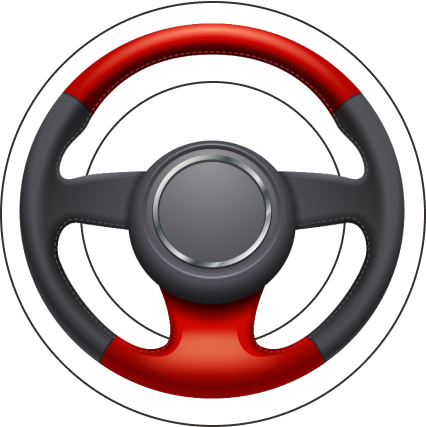
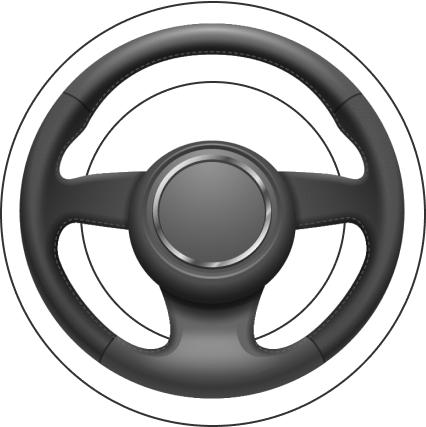
Read encoder value in real time (50ms interval). Create and sync default profile if it does not exist in app dir.

Changed region(s): [[0.2136, 0.6698, 0.7629, 0.9438], [0.1526, 0.0304, 0.8545, 0.274]]

diff --git a/src/App.jsx b/src/App.jsx
@@ -1,11 +1,14 @@
 import {useEffect, useState} from 'react';
 import { invoke } from "@tauri-apps/api/tauri";
+import { BaseDirectory, createDir, readTextFile, writeTextFile, exists } from "@tauri-apps/api/fs";
+import { appDataDir } from '@tauri-apps/api/path';
 import "./App.css";
 import { appWindow } from '@tauri-apps/api/window';
 import paddockLogo from "./assets/paddock-logo.png";
 import axisTab from "./assets/axis-tab.png";
 import effectTab from "./assets/effect-tab.png";
 import steeringWheel from "./assets/steering-wheel.png";
+import steeringWheelActive from "./assets/steering-wheel-active.png";
 import steeringWheelTitle from "./assets/steering-wheel-angle-title.png";
 
 function App() {
@@ -21,10 +24,83 @@ function App() {
     const [sliderInertiaValue, setSliderInertiaValue] = useState(50);
     const [sliderFilterFreqValue, setSliderFilterFreqValue] = useState(250);
     const [sliderFilterQValue, setSliderFilterQValue] = useState(40);
+    const [rotation, setRotation] = useState(0);
+    const [profiles, setProfiles] = useState({});
 
     const [status, setStatus] = useState('Disconnected');
     const [connectedDevice, setConnectedDevice] = useState('');
     const [message, setMessage] = useState('');
+
+    const prepareDataDirectory = async () => {
+      await createDir("data", {
+        dir: BaseDirectory.Desktop,
+        recursive: true,
+      });
+    }
+
+    const applyProfile = async (profile) => {
+        const keys = Object.keys(profile);
+        for (let i in keys) {
+            let key = keys[i];
+            if (key === 'name') { // This could cause crash in Rust side.
+                continue;
+            }
+            let value = profile[key];
+            let input = key + ":" + value
+            console.log(input);
+            await invoke("set_value", { input });
+        }
+    }
+
+    const syncProfileData = async () => {
+        await prepareDataDirectory()
+
+        const appDirectory = await appDataDir();
+        const filePath = appDirectory + `profiles.json`
+        try {
+            const fileExists = await exists(filePath);
+            if (!fileExists) {
+                let profiles = {
+                    current: "Default",
+                    profiles: [{
+                        name: "Default",
+                        degrees: 540,
+                        power: 50,
+                        intensity: 50,
+                        bumpstop: 50,
+                        idlespring: 50,
+                        mechanicaldamper: 50,
+                        damper: 50,
+                        spring: 50,
+                        friction: 50,
+                        inertia: 50,
+                        filtefreq: 250,
+                        filterq: 50,
+                    }],
+                }
+                setProfiles(profiles);
+                applyProfile(profiles.profiles[0]);
+                let content = JSON.stringify(profiles);
+                await writeTextFile(
+                    {
+                        contents: content,
+                        path: filePath,
+                    }
+                );
+            } else {
+                const content = await readTextFile(filePath);
+                const profiles = JSON.parse(content);
+                setProfiles(profiles);
+            }
+        } catch (e) {
+            console.log(e);
+        }
+    };
+
+    const readDeviceEncoder = async (e) => {
+        let degs = await invoke("read_device_encoder");
+        setRotation(Math.floor(degs));
+    }
 
     const setCenterPosition = async (e) => {
         let input = "center" + ":0";
@@ -105,12 +181,24 @@ function App() {
     }
 
     useEffect(() => {
-      appWindow.setResizable(false);
-      appWindow.setTitle('RPS Paddock')
-      setInterval(() => {
-          getDevices();
-      }, 1000);
-    }, [])
+        appWindow.setResizable(false);
+        appWindow.setTitle('RPS Paddock')
+
+        syncProfileData();
+
+        const readDeviceEncoderInterval = setInterval(() => {
+            readDeviceEncoder();
+        }, 50);
+
+        const getDeviceInterval = setInterval(() => {
+            getDevices();
+        }, 1000);
+
+        return () => {
+            clearInterval(getDeviceInterval);
+            clearInterval(readDeviceEncoderInterval);
+        }
+    }, [status])
 
     return (
         <div id="app">
@@ -121,14 +209,19 @@ function App() {
                 </div>
                 <div className="title" data-tauri-drag-region>
                     <img src={paddockLogo} width="300" data-tauri-drag-region/>
-	    	    <div className="device-box">
-                <div className="status">
+	    	    <div className="device-box" data-tauri-drag-region>
+                <div className="status" data-tauri-drag-region>
+                {status=='Connected' ? (
+                    <div className="connected-indicator" data-tauri-drag-region></div>
+                ) : (
+                    <div className="disconnected-indicator" data-tauri-drag-region></div>
+                )}
 	    	    {status} 
                     {connectedDevice && connectedDevice.length > 0 && (
-                        <span> ({connectedDevice})</span>
+                        <span data-tauri-drag-region> ({connectedDevice})</span>
                     )}
                     {message && message.length > 0 && (
-                        <span> {message}</span>
+                        <span data-tauri-drag-region> {message}</span>
                     )}
                 </div>
 	    	    </div>
@@ -299,12 +392,37 @@ function App() {
                 </div>
                 <div className="col-angle">
 	    	    <img src={steeringWheelTitle} style={{height:15, align:'left', marginTop:30}}/>
-	    	    <img src={steeringWheel} style={{height:200, align:'left', marginTop:40, marginBottom:30}}/>
-                        <button onClick={setCenterPosition}>Set center position</button>
+                <div style={{
+                  position:'fixed',
+                  zIndex: 999,
+                  marginTop:131,
+                  marginLeft:129,
+                  width: 40,
+                  textAlign:'center',
+                  color: 'black'
+                  }}>
+                    {rotation}
+                </div>
+	    	    <img src={connectedDevice === '' ? steeringWheel : steeringWheelActive} 
+                    style={{
+                    height: 200,
+                    marginTop: 40,
+                    marginBottom: 30,
+                    transform: `rotate(${rotation}deg)`,
+                    transformOrigin: 'center center',
+                    }}
+                />
+                <button onClick={setCenterPosition} className="set-center-button">Set center position</button>
+                <br/>
+                {/* 
+                */}
+                <button onClick={getDevices} className="set-center-button">Get device</button>
+                <button onClick={readDeviceEncoder} className="set-center-button">Read device</button>
                 </div>
 
             </div>
             <div id="footer">
+                <div style={{marginTop: 10}}>Profile: {profiles.current}</div>
             </div>
         </div>
     )

diff --git a/src/App.css b/src/App.css
@@ -162,5 +162,37 @@
 
 .status {
     padding-top:2px;
+}
 
+.connected-indicator {
+  display:inline-block;
+  margin-right: 10px;
+  border-radius: 5px;
+  background: green;
+  width: 10px;
+  height: 10px;
+}
+
+.disconnected-indicator {
+  display:inline-block;
+  margin-right: 10px;
+  border-radius: 5px;
+  background: grey;
+  width: 10px;
+  height: 10px;
+}
+
+.set-center-button {
+  background: #C01E11;
+  border: 0px;
+  color: white;
+  -webkit-transform: skew(-10deg);
+  padding: 5px 10px 5px 10px;
+}
+
+.set-center-button:hover {
+  background: #f03e31;
+}
+.set-center-button:active {
+  background: #580d08;
 }

diff --git a/src-tauri/src/main.rs b/src-tauri/src/main.rs
@@ -2,15 +2,20 @@
 // Prevents additional console window on Windows in release, DO NOT REMOVE!!
 #![cfg_attr(not(debug_assertions), windows_subsystem = "windows")]
 
+extern crate regex;
+
 use serialport::*;
 use log::*;
 use lazy_static::lazy_static;
 use std::sync::Mutex;
 use core::time::Duration;
 use serde::Serialize;
+use std::thread;
+use regex::Regex;
 
 const GLOBAL_POWER_SCALE: f64 = 32767.0;
 const GLOBAL_255_SCALE: f64 = 255.0;
+const GLOBAL_CPR_SCALE: f64 = 65535.0;
 lazy_static! {
     static ref GLOBAL_SERIAL_PORT: Mutex<Option<Box<dyn SerialPort>>> = Mutex::new(None);
 }
@@ -27,6 +32,71 @@ fn greet(name: &str) -> String {
     format!("Hello, {}! You've been greeted from Rust!", name)
 }
 
+#[tauri::command]
+fn read_device_encoder() -> f64 {
+    let mut global_port = GLOBAL_SERIAL_PORT.lock().unwrap();
+    if let Some(ref mut port) = *global_port {
+        let command = "axis.0.pos\n\r";
+        match port.write(command.as_bytes()) {
+            Ok(_) => {
+                let mut buffer: Vec<u8> = vec![0; 1024];
+                match port.read(buffer.as_mut_slice()) {
+                    Ok(n) => {
+                        if n > 0 {
+                            let ok = String::from_utf8(buffer.to_vec());
+                            match ok {
+                                Ok(decoded_string) => {
+                                    let re = Regex::new(r"axis\.0\.pos\?\|(-?\d+)\]").unwrap();
+                                    if let Some(caps) = re.captures(decoded_string.as_str()) {
+                                        if let Some(matched) = caps.get(1) {
+                                            let number_str = matched.as_str();
+                                            match number_str.parse::<f64>() {
+                                                Ok(value) => {
+                                                    let rots = value / GLOBAL_CPR_SCALE;
+                                                    let degs = rots * 360.0;
+                                                    return degs;
+                                                },
+                                                Err(e) => {
+                                                    //eprintln!("Failed to convert to f64: {:?}", e);
+                                                    return 0.0;
+                                                },
+                                            }
+                                        }
+                                        return 0.0;
+                                    } else {
+                                        //eprintln!("No match found for axis.0.pos");
+                                        return 0.0;
+                                    }
+                                },
+                                Err(e) => {
+                                    //eprintln!("Failed to decode string: {}", e);
+                                    return 0.0;
+                                },
+                            }
+                        }
+                        return 0.0;
+                    }
+                    Err(ref e) if e.kind() == std::io::ErrorKind::TimedOut => {
+                        return 0.0;
+                    }
+                    Err(e) => {
+                        //info!("port read attempt in loop, failed to read");
+                        return 0.0;
+                    }
+                }
+            }, 
+            Err(e) => {
+                //info!("Failed to send command: {}", e);
+                return 0.0;
+            },
+        }
+    } else {
+        //info!("Serial port not initialized");
+        return 0.0;
+    }
+}
+
+
 fn open_device(port_name: &str) -> Result<()> {
     let mut global_port = GLOBAL_SERIAL_PORT.lock().unwrap();
     if let Some(ref mut _port) = *global_port {
@@ -34,7 +104,7 @@ fn open_device(port_name: &str) -> Result<()> {
         Ok(())
     } else {
         match serialport::new(port_name, 9600)
-        .timeout(Duration::from_millis(0))
+        .timeout(Duration::from_millis(5))
         .open() {
             Ok(_port) => {
                 *global_port = Some(_port);
@@ -87,7 +157,36 @@ fn set_value(input: &str) {
         info!("{}", command);
         if let Some(ref mut port) = *global_port {
             match port.write(command.as_bytes()) {
-                Ok(_) => {}, 
+                Ok(_) => {
+
+
+                let mut buffer: Vec<u8> = vec![0; 1024];
+                match port.read(buffer.as_mut_slice()) {
+                    Ok(n) => {
+                        info!("port read attempt in loop, read ok");
+                        if n > 0 {
+                            println!("Read {} bytes: {:?}", n, &buffer[..n]);
+                            let ok = String::from_utf8(buffer.to_vec());
+                            match ok {
+                                Ok(decoded_string) => {
+                                    info!("{}", decoded_string);
+                                },
+                                Err(e) => eprintln!("Failed to decode string: {}", e),
+
+                            }
+                        }
+                    }
+                    Err(ref e) if e.kind() == std::io::ErrorKind::TimedOut => {
+                        info!("port read attempt in loop, no data");
+                    }
+                    Err(e) => {
+                        info!("port read attempt in loop, failed to read");
+                        eprintln!("Failed to read from port: {}", e);
+                    }
+                }
+
+
+                }, 
                 Err(e) => {
                     info!("Failed to send command: {}", e);
                 },
@@ -343,7 +442,7 @@ fn get_device() -> Device {
 fn main() {
     tauri::Builder::default()
         .plugin(tauri_plugin_log::Builder::default().build())
-        .invoke_handler(tauri::generate_handler![greet, get_device, set_value])
+        .invoke_handler(tauri::generate_handler![greet, get_device, set_value, read_device_encoder])
         .run(tauri::generate_context!())
         .expect("error while running tauri application");
 }
